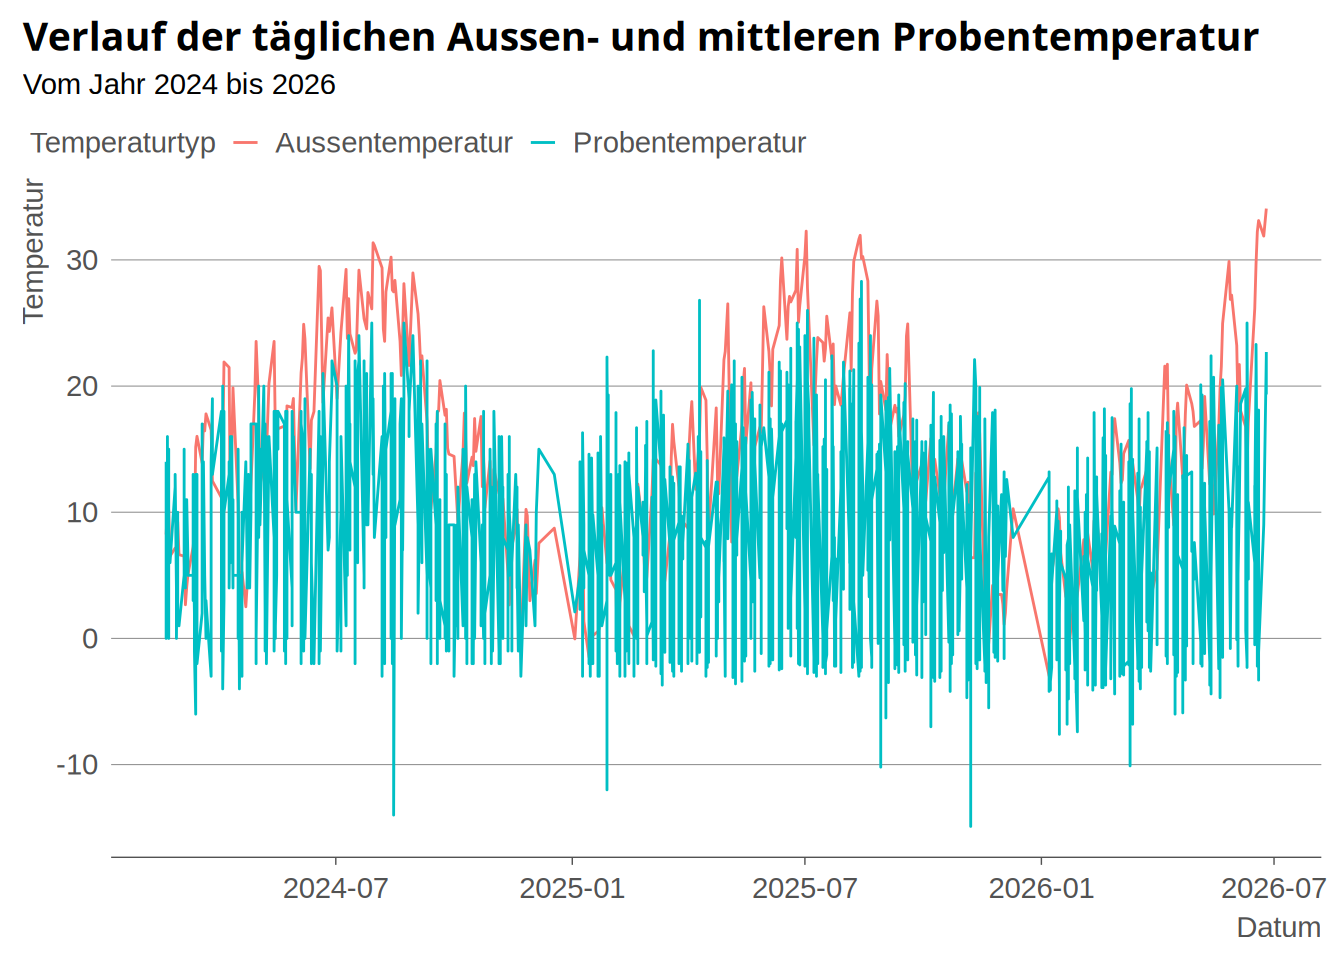
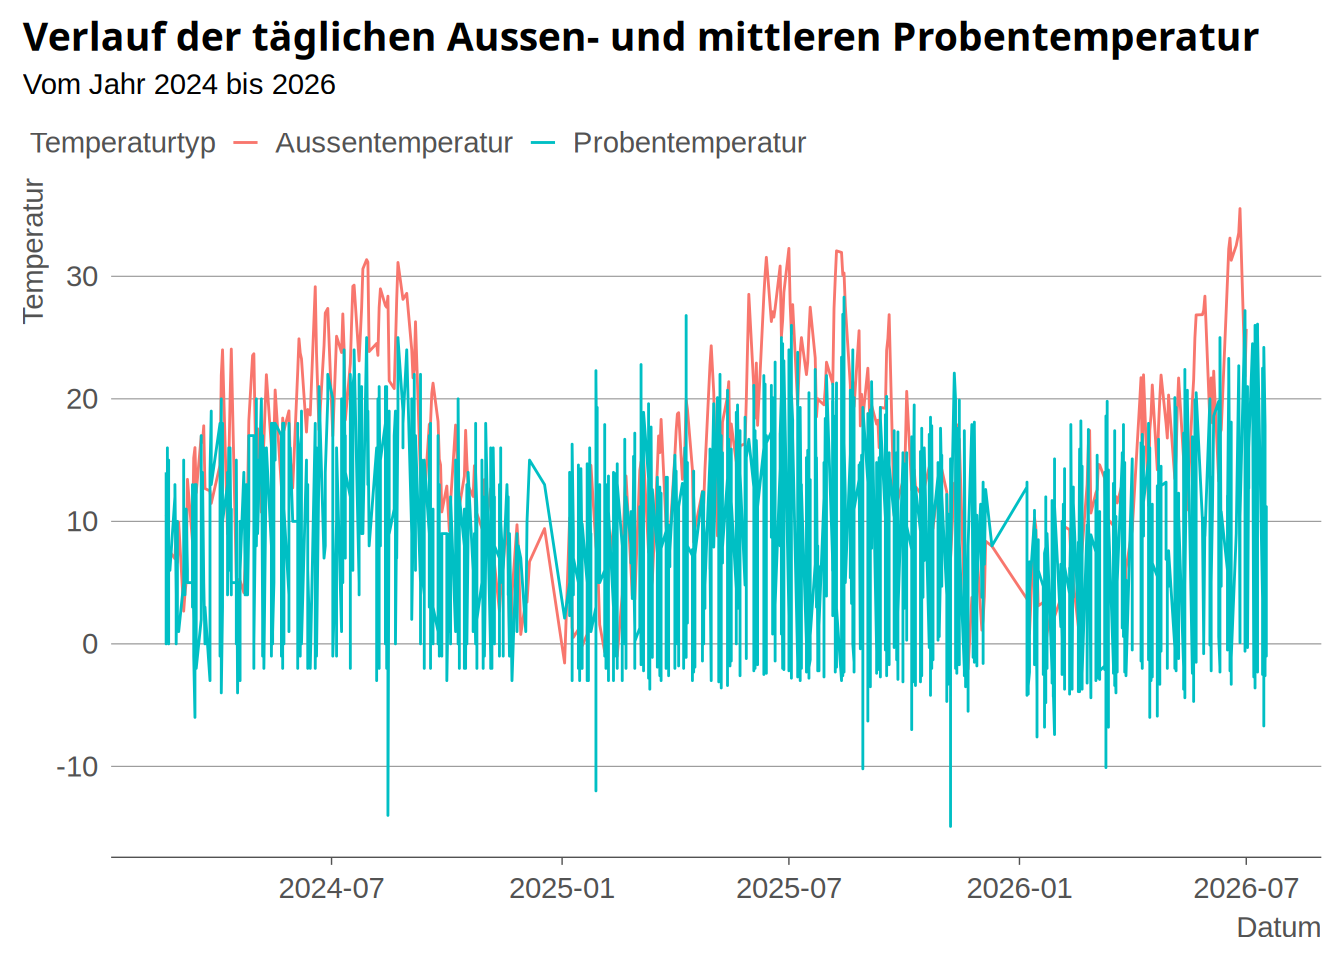
Quartoname angepasst auf index.qmd

diff --git a/projekt-Nonina1.html b/projekt-Nonina1.html
@@ -183,14 +183,14 @@ pre > code.sourceCode > span > a:first-child::before { text-decoration: underlin
 <section id="laden-der-daten" class="level2">
 <h2 class="anchored" data-anchor-id="laden-der-daten">Laden der Daten</h2>
 <div class="cell">
-<div class="code-copy-outer-scaffold"><div class="sourceCode cell-code" id="cb2"><pre class="sourceCode r code-with-copy"><code class="sourceCode r"><span id="cb2-1"><a href="#cb2-1" aria-hidden="true" tabindex="-1"></a>Temp2024 <span class="ot">&lt;-</span> <span class="fu">read.csv2</span>(here<span class="sc">::</span><span class="fu">here</span>(<span class="st">"daten/raw/TemperaturProbenankunft2024.csv"</span>))</span>
-<span id="cb2-2"><a href="#cb2-2" aria-hidden="true" tabindex="-1"></a>Temp2025 <span class="ot">&lt;-</span> <span class="fu">read.csv2</span>(here<span class="sc">::</span><span class="fu">here</span>(<span class="st">"daten/raw/TemperaturProbenankunft2025.csv"</span>))</span>
-<span id="cb2-3"><a href="#cb2-3" aria-hidden="true" tabindex="-1"></a>Temp2026 <span class="ot">&lt;-</span> <span class="fu">read.csv2</span>(here<span class="sc">::</span><span class="fu">here</span>(<span class="st">"daten/raw/TemperaturProbenankunft2026.csv"</span>))</span>
-<span id="cb2-4"><a href="#cb2-4" aria-hidden="true" tabindex="-1"></a>Datum2025 <span class="ot">&lt;-</span> <span class="fu">read.csv2</span>(here<span class="sc">::</span><span class="fu">here</span>(<span class="st">"daten/raw/EingangsdatumProben2025.csv"</span>))</span>
+<div class="code-copy-outer-scaffold"><div class="sourceCode cell-code" id="cb2"><pre class="sourceCode r code-with-copy"><code class="sourceCode r"><span id="cb2-1"><a href="#cb2-1" aria-hidden="true" tabindex="-1"></a>Temp2024 <span class="ot">&lt;-</span> <span class="fu">read_csv2</span>(here<span class="sc">::</span><span class="fu">here</span>(<span class="st">"daten/raw/TemperaturProbenankunft2024.csv"</span>))</span>
+<span id="cb2-2"><a href="#cb2-2" aria-hidden="true" tabindex="-1"></a>Temp2025 <span class="ot">&lt;-</span> <span class="fu">read_csv2</span>(here<span class="sc">::</span><span class="fu">here</span>(<span class="st">"daten/raw/TemperaturProbenankunft2025.csv"</span>))</span>
+<span id="cb2-3"><a href="#cb2-3" aria-hidden="true" tabindex="-1"></a>Temp2026 <span class="ot">&lt;-</span> <span class="fu">read_csv2</span>(here<span class="sc">::</span><span class="fu">here</span>(<span class="st">"daten/raw/TemperaturProbenankunft2026.csv"</span>))</span>
+<span id="cb2-4"><a href="#cb2-4" aria-hidden="true" tabindex="-1"></a>Datum2025 <span class="ot">&lt;-</span> <span class="fu">read_csv2</span>(here<span class="sc">::</span><span class="fu">here</span>(<span class="st">"daten/raw/EingangsdatumProben2025.csv"</span>))</span>
 <span id="cb2-5"><a href="#cb2-5" aria-hidden="true" tabindex="-1"></a></span>
-<span id="cb2-6"><a href="#cb2-6" aria-hidden="true" tabindex="-1"></a>Meteo2024 <span class="ot">&lt;-</span> <span class="fu">read.csv</span>(here<span class="sc">::</span><span class="fu">here</span>(<span class="st">"daten/raw/ugz_ogd_meteo_d1_2024.csv"</span>))</span>
-<span id="cb2-7"><a href="#cb2-7" aria-hidden="true" tabindex="-1"></a>Meteo2025 <span class="ot">&lt;-</span> <span class="fu">read.csv</span>(here<span class="sc">::</span><span class="fu">here</span>(<span class="st">"daten/raw/ugz_ogd_meteo_d1_2025.csv"</span>))</span>
-<span id="cb2-8"><a href="#cb2-8" aria-hidden="true" tabindex="-1"></a>Meteo2026 <span class="ot">&lt;-</span> <span class="fu">read.csv</span>(here<span class="sc">::</span><span class="fu">here</span>(<span class="st">"daten/raw/ugz_ogd_meteo_d1_2026.csv"</span>))</span></code></pre></div><button title="In die Zwischenablage kopieren" class="code-copy-button"><i class="bi"></i></button></div>
+<span id="cb2-6"><a href="#cb2-6" aria-hidden="true" tabindex="-1"></a>Meteo2024 <span class="ot">&lt;-</span> <span class="fu">read_csv</span>(here<span class="sc">::</span><span class="fu">here</span>(<span class="st">"daten/raw/ugz_ogd_meteo_d1_2024.csv"</span>))</span>
+<span id="cb2-7"><a href="#cb2-7" aria-hidden="true" tabindex="-1"></a>Meteo2025 <span class="ot">&lt;-</span> <span class="fu">read_csv</span>(here<span class="sc">::</span><span class="fu">here</span>(<span class="st">"daten/raw/ugz_ogd_meteo_d1_2025.csv"</span>))</span>
+<span id="cb2-8"><a href="#cb2-8" aria-hidden="true" tabindex="-1"></a>Meteo2026 <span class="ot">&lt;-</span> <span class="fu">read_csv</span>(here<span class="sc">::</span><span class="fu">here</span>(<span class="st">"daten/raw/ugz_ogd_meteo_d1_2026.csv"</span>))</span></code></pre></div><button title="In die Zwischenablage kopieren" class="code-copy-button"><i class="bi"></i></button></div>
 </div>
 </section>
 <section id="herkunft-der-meteo-daten" class="level2">
@@ -208,8 +208,8 @@ pre > code.sourceCode > span > a:first-child::before { text-decoration: underlin
 <h2 class="anchored" data-anchor-id="datenbereinigung-für-das-jahr-2024">Datenbereinigung für das Jahr 2024</h2>
 <div class="cell">
 <div class="code-copy-outer-scaffold"><div class="sourceCode cell-code" id="cb3"><pre class="sourceCode r code-with-copy"><code class="sourceCode r"><span id="cb3-1"><a href="#cb3-1" aria-hidden="true" tabindex="-1"></a>Temp2024_kor <span class="ot">&lt;-</span> Temp2024 <span class="sc">|&gt;</span> </span>
-<span id="cb3-2"><a href="#cb3-2" aria-hidden="true" tabindex="-1"></a>  <span class="fu">rename</span>(<span class="at">Probennummer =</span> Probe.Nr,</span>
-<span id="cb3-3"><a href="#cb3-3" aria-hidden="true" tabindex="-1"></a>         <span class="at">Temperatur =</span> Temperatur.Fleisch) <span class="sc">|&gt;</span> </span>
+<span id="cb3-2"><a href="#cb3-2" aria-hidden="true" tabindex="-1"></a>  <span class="fu">rename</span>(<span class="at">Probennummer =</span> <span class="st">`</span><span class="at">Probe-Nr</span><span class="st">`</span>,</span>
+<span id="cb3-3"><a href="#cb3-3" aria-hidden="true" tabindex="-1"></a>         <span class="at">Temperatur =</span> <span class="st">`</span><span class="at">Temperatur Fleisch</span><span class="st">`</span>) <span class="sc">|&gt;</span> </span>
 <span id="cb3-4"><a href="#cb3-4" aria-hidden="true" tabindex="-1"></a>   <span class="fu">mutate</span>(</span>
 <span id="cb3-5"><a href="#cb3-5" aria-hidden="true" tabindex="-1"></a>         <span class="at">Datum =</span> <span class="fu">sub</span>(<span class="st">" abend 16:45"</span>, <span class="st">""</span>, Datum),</span>
 <span id="cb3-6"><a href="#cb3-6" aria-hidden="true" tabindex="-1"></a>         <span class="at">Datum =</span> <span class="fu">dmy</span>(Datum),</span>
@@ -224,8 +224,8 @@ pre > code.sourceCode > span > a:first-child::before { text-decoration: underlin
 <h2 class="anchored" data-anchor-id="datenbereinigung-für-das-jahr-2025">Datenbereinigung für das Jahr 2025</h2>
 <div class="cell">
 <div class="code-copy-outer-scaffold"><div class="sourceCode cell-code" id="cb4"><pre class="sourceCode r code-with-copy"><code class="sourceCode r"><span id="cb4-1"><a href="#cb4-1" aria-hidden="true" tabindex="-1"></a>Temp_2025 <span class="ot">&lt;-</span> Temp2025 <span class="sc">|&gt;</span> </span>
-<span id="cb4-2"><a href="#cb4-2" aria-hidden="true" tabindex="-1"></a>  <span class="fu">rename</span>(<span class="at">Probennummer =</span> Pro2.Nr,</span>
-<span id="cb4-3"><a href="#cb4-3" aria-hidden="true" tabindex="-1"></a>         <span class="at">Temperatur =</span> Temperatur.Fleisch)</span></code></pre></div><button title="In die Zwischenablage kopieren" class="code-copy-button"><i class="bi"></i></button></div>
+<span id="cb4-2"><a href="#cb4-2" aria-hidden="true" tabindex="-1"></a>  <span class="fu">rename</span>(<span class="at">Probennummer =</span> <span class="st">`</span><span class="at">Pro2-Nr</span><span class="st">`</span>,</span>
+<span id="cb4-3"><a href="#cb4-3" aria-hidden="true" tabindex="-1"></a>         <span class="at">Temperatur =</span> <span class="st">`</span><span class="at">Temperatur Fleisch</span><span class="st">`</span>)</span></code></pre></div><button title="In die Zwischenablage kopieren" class="code-copy-button"><i class="bi"></i></button></div>
 </div>
 <div class="cell">
 <div class="code-copy-outer-scaffold"><div class="sourceCode cell-code" id="cb5"><pre class="sourceCode r code-with-copy"><code class="sourceCode r"><span id="cb5-1"><a href="#cb5-1" aria-hidden="true" tabindex="-1"></a>Temp2025_datum <span class="ot">&lt;-</span> <span class="fu">left_join</span>(Temp_2025, Datum2025, <span class="at">by =</span> <span class="st">"Probennummer"</span>)</span>
@@ -356,34 +356,44 @@ Tabelle&nbsp;1: Jahres- und saisonale Temperaturstatistik 2024-2026
 </thead>
 <tbody>
 <tr class="odd">
+<td style="text-align: right;">2023</td>
+<td style="text-align: right;">7.0</td>
+<td style="text-align: right;">7.0</td>
+<td style="text-align: right;">7.0</td>
+<td style="text-align: right;">NaN</td>
+<td style="text-align: right;">NaN</td>
+<td style="text-align: right;">NaN</td>
+<td style="text-align: right;">7.0</td>
+</tr>
+<tr class="even">
 <td style="text-align: right;">2024</td>
 <td style="text-align: right;">-3.6</td>
 <td style="text-align: right;">31.4</td>
 <td style="text-align: right;">14.3</td>
-<td style="text-align: right;">14.5</td>
-<td style="text-align: right;">24.0</td>
-<td style="text-align: right;">13.1</td>
+<td style="text-align: right;">14.6</td>
+<td style="text-align: right;">24.2</td>
+<td style="text-align: right;">12.8</td>
 <td style="text-align: right;">5.6</td>
 </tr>
-<tr class="even">
+<tr class="odd">
 <td style="text-align: right;">2025</td>
 <td style="text-align: right;">-2.4</td>
 <td style="text-align: right;">32.3</td>
 <td style="text-align: right;">14.1</td>
-<td style="text-align: right;">14.8</td>
-<td style="text-align: right;">24.2</td>
-<td style="text-align: right;">12.8</td>
-<td style="text-align: right;">4.3</td>
+<td style="text-align: right;">15.1</td>
+<td style="text-align: right;">24.1</td>
+<td style="text-align: right;">12.6</td>
+<td style="text-align: right;">4.2</td>
 </tr>
-<tr class="odd">
+<tr class="even">
 <td style="text-align: right;">2026</td>
 <td style="text-align: right;">-5.3</td>
 <td style="text-align: right;">35.5</td>
-<td style="text-align: right;">14.1</td>
-<td style="text-align: right;">15.8</td>
-<td style="text-align: right;">26.4</td>
+<td style="text-align: right;">14.2</td>
+<td style="text-align: right;">16.0</td>
+<td style="text-align: right;">26.5</td>
 <td style="text-align: right;">NaN</td>
-<td style="text-align: right;">4.9</td>
+<td style="text-align: right;">5.0</td>
 </tr>
 </tbody>
 </table>
@@ -680,9 +690,9 @@ Daher könnten wir noch schauen, wieviele Proben über diesen 8°C waren.</p>
 </tr>
 <tr class="odd">
 <td style="text-align: right;">2026</td>
-<td style="text-align: right;">563</td>
-<td style="text-align: right;">1777</td>
-<td style="text-align: right;">31.7</td>
+<td style="text-align: right;">742</td>
+<td style="text-align: right;">2151</td>
+<td style="text-align: right;">34.5</td>
 </tr>
 </tbody>
 </table>
